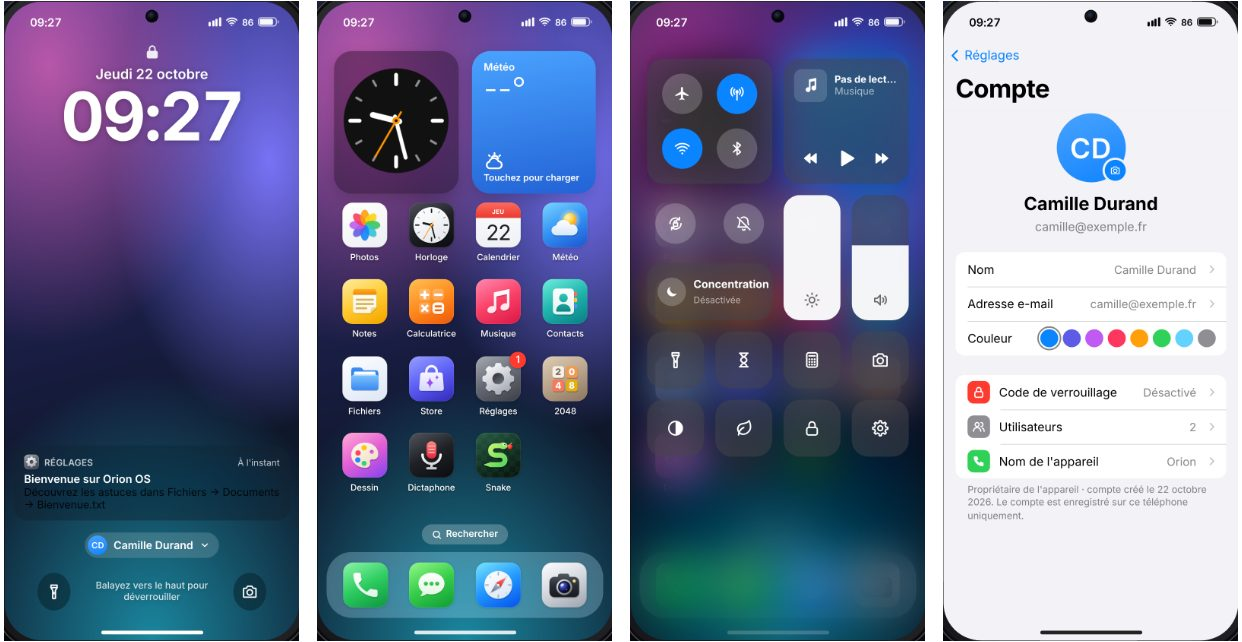
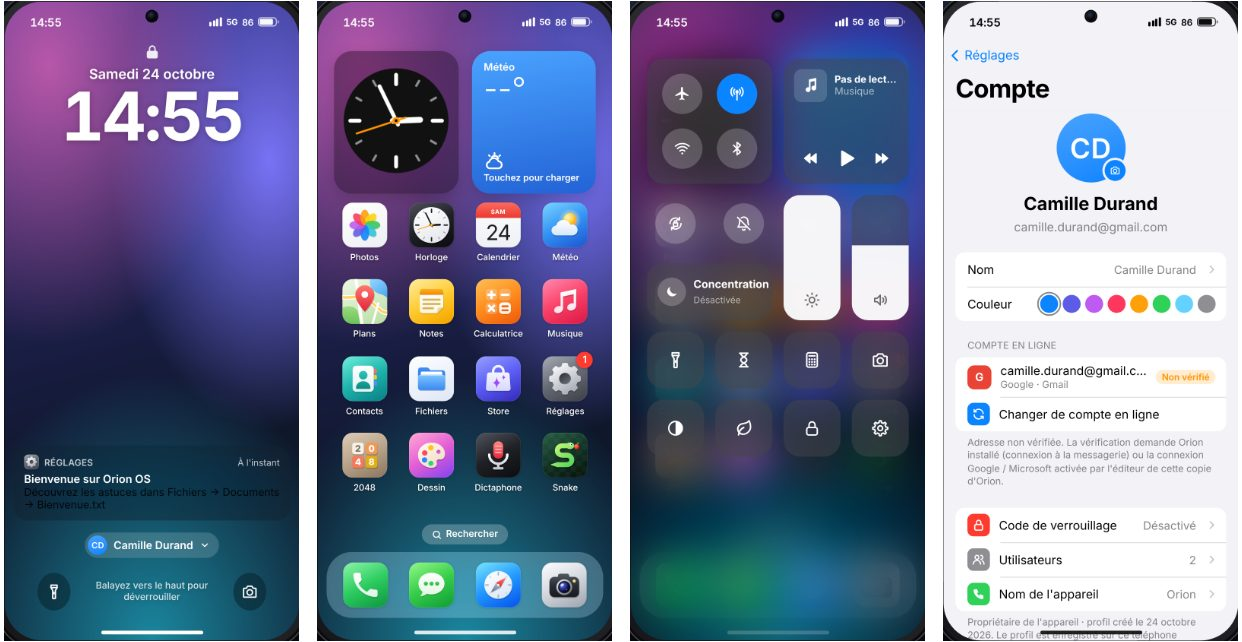
Orion OS 0.1 (alpha) n° 6 : écran du compte reverrouillé, notes et captures
- Sécurité : l'écran « compte en ligne » qui suit le déverrouillage se
  ferme et l'appareil se reverrouille quand l'écran s'éteint (bouton
  latéral ou verrouillage automatique) ; le compte est redemandé après
  le code. Auparavant, n'importe qui pouvait terminer cet écran et
  arriver à l'accueil sans le code.
- Notes de version de la 0.1 n° 6 (compte en ligne, optimisations,
  messagerie, Courrier, corrections), captures du README régénérées,
  version.json publié.

Claude-Session: https://claude.ai/code/session_01BARG1jBKC3UuqNzyMhE3jv

diff --git a/src/system/system-ui.js b/src/system/system-ui.js
@@ -381,7 +381,9 @@ export class SystemUI {
 
   #checkAutoLock() {
     const seconds = this.kernel.settings.get('autoLock');
-    if (!seconds || ['off', 'boot', 'setup'].includes(this.state)) return;
+    // Premier démarrage : pas de verrouillage automatique (pas encore de code). Compte en ligne
+    // demandé après le déverrouillage : l'appareil se reverrouille comme d'habitude.
+    if (!seconds || ['off', 'boot'].includes(this.state) || (this.state === 'setup' && !this.linking)) return;
     if (this.kernel.telephony.call || this.alarmScreen.isVisible) return;
     if (Date.now() - this.lastActivity > seconds * 1000) this.screenOff();
   }
@@ -495,19 +497,22 @@ export class SystemUI {
    * changement depuis les Réglages). Résout avec l'identité, ou null si annulé.
    */
   async linkIdentity({ required = false, provider = null } = {}) {
-    if (this.linking) return this.linking;
+    if (this.linking) return this.linking.done;
     const resumed = this.pendingSignIn ?? null;
     this.pendingSignIn = null;
     this.closeOverlays();
     this.setState('setup');
-    this.linking = new SetupWizard(this).link({ required, provider, resumed });
+    const wizard = new SetupWizard(this);
+    this.linking = { wizard, done: wizard.link({ required, provider, resumed }) };
     try {
-      return await this.linking;
+      return await this.linking.done;
     } finally {
       this.linking = null;
-      this.setState(this.wm.currentWindow ? 'app' : 'home');
-      // Toujours sans compte (connexion reprise puis échouée, par exemple) : on redemande.
-      if (this.kernel.identity?.required) this.linkIdentity({ required: true });
+      // Écran éteint entre-temps : l'appareil a été reverrouillé, on n'y touche pas.
+      if (this.state === 'setup') this.setState(this.wm.currentWindow ? 'app' : 'home');
+      // Toujours sans compte (connexion reprise puis échouée, par exemple) : on redemande,
+      // après le déverrouillage s'il a été reverrouillé.
+      if (this.kernel.identity?.required && !this.lock.isLocked) this.linkIdentity({ required: true });
     }
   }
 
@@ -529,7 +534,12 @@ export class SystemUI {
 
   screenOff() {
     if (this.state === 'off' || this.state === 'boot') return;
-    if (this.state !== 'setup') this.lockNow();
+    // Compte en ligne demandé après le déverrouillage : l'appareil était protégé, il se
+    // reverrouille (sinon n'importe qui pourrait terminer l'écran et arriver à l'accueil).
+    // Le compte sera redemandé au déverrouillage suivant.
+    const linking = this.linking;
+    linking?.wizard.abort();
+    if (this.state !== 'setup' || linking) this.lockNow();
     this.stateBeforeOff = this.state;
     this.layers.off.replaceChildren();
     this.layers.off.classList.add('visible');

diff --git a/src/system/setup.js b/src/system/setup.js
@@ -512,11 +512,25 @@ export class SetupWizard {
     await this.#close(null);
   }
 
+  /** Ferme tout de suite, sans animation (écran éteint : l'appareil se reverrouille). */
+  abort() {
+    if (!this.resolve) return;
+    this.el.classList.remove('visible');
+    this.el.replaceChildren();
+    this.el.getAnimations?.().forEach((a) => a.cancel());
+    const resolve = this.resolve;
+    this.resolve = null;
+    resolve(null);
+  }
+
   async #close(result) {
+    if (!this.resolve) return;
     await animate(this.el, [{ opacity: 1 }, { opacity: 0 }], { duration: this.ui.dur(400), fill: 'forwards' });
     this.el.classList.remove('visible');
     this.el.replaceChildren();
     this.el.getAnimations?.().forEach((a) => a.cancel());
-    this.resolve(result);
+    const resolve = this.resolve;
+    this.resolve = null;
+    resolve?.(result);
   }
 }

diff --git a/src/kernel/version.js b/src/kernel/version.js
@@ -21,6 +21,7 @@ export const RELEASE = Object.freeze({
     'Plus rapide : démarrage deux fois plus court, un seul réveil par seconde pour tout le système au lieu de cinq, Horloge et Courrier au repos quand ils sont en arrière-plan.',
     'Messagerie sur Orion installé : vos comptes e-mail dans Réglages → Comptes de messagerie, et l\'autorisation « E-mails » pour les apps qui les utilisent.',
     'Pour les développeurs : Courrier, une app d\'e-mail complète prête à publier (Store → console développeur → nouvelle app → Modèles).',
+    'Corrections : les horloges (barre d\'état, écran verrouillé) changent à la minute pile, le chronomètre et le minuteur ne consomment plus rien en arrière-plan, et la fenêtre de connexion fermée trop tôt ne bloque plus le bouton.',
   ]),
 });
 

diff --git a/README.md b/README.md
@@ -340,7 +340,7 @@ Le téléphone garde la version installée, entièrement en cache, jusqu'à ce q
 ## Tests
 
 ```bash
-npm test            # 128 tests unitaires (noyau, comptes en ligne, Store, protection, messagerie, matériel avec un faux orion-server, mises à jour ; node:test, sans dépendance)
+npm test            # 129 tests unitaires (noyau, comptes en ligne, Store, protection, messagerie, matériel avec un faux orion-server, mises à jour ; node:test, sans dépendance)
 npm install && npx playwright install chromium
 npm run test:e2e    # parcours complet dans Chromium : configuration, compte en ligne, 20 apps, gestes, code PIN, profils
 npm run lint        # ESLint
